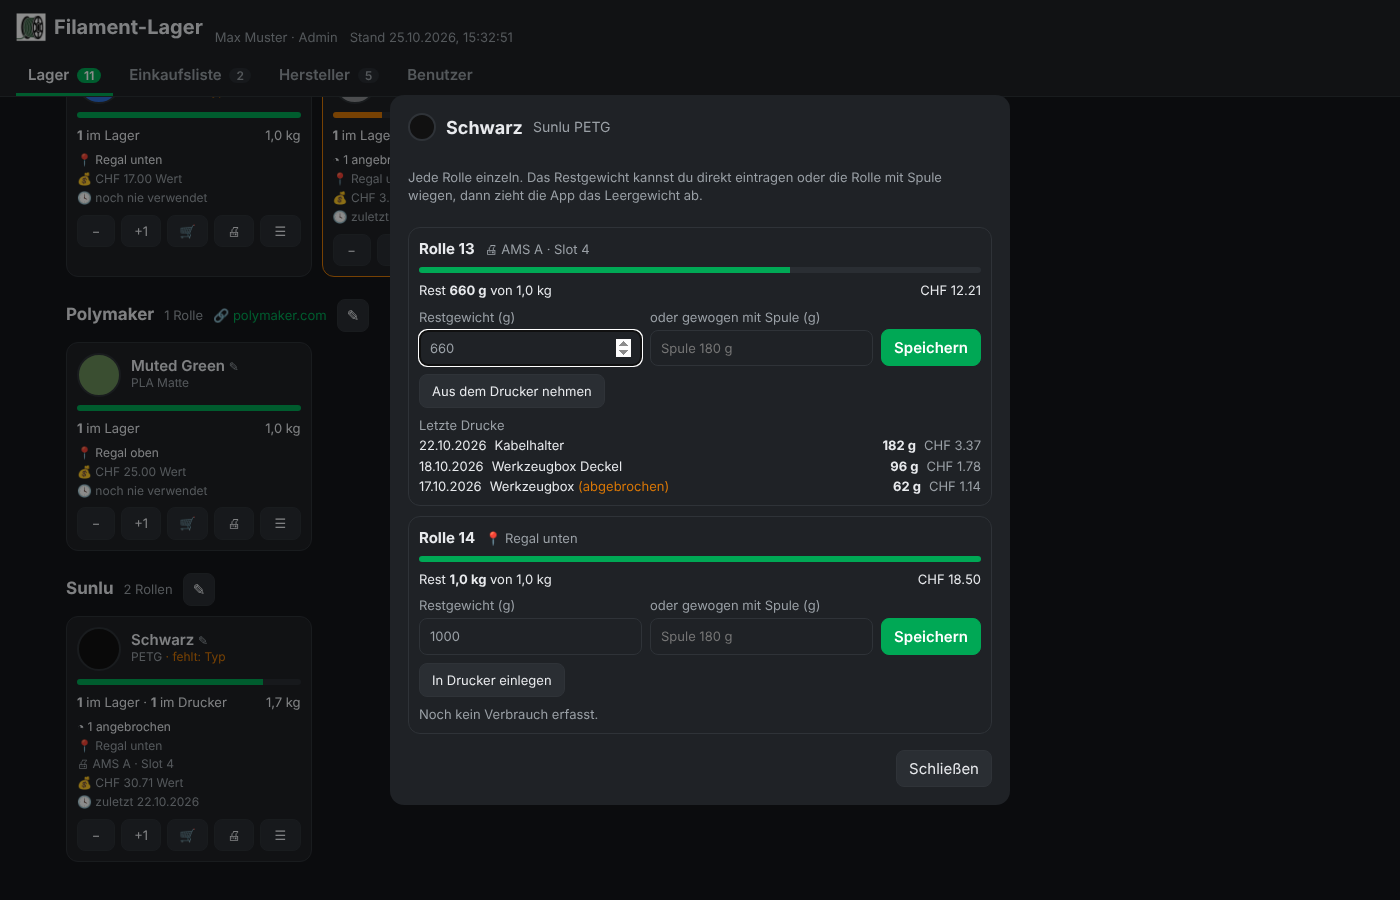
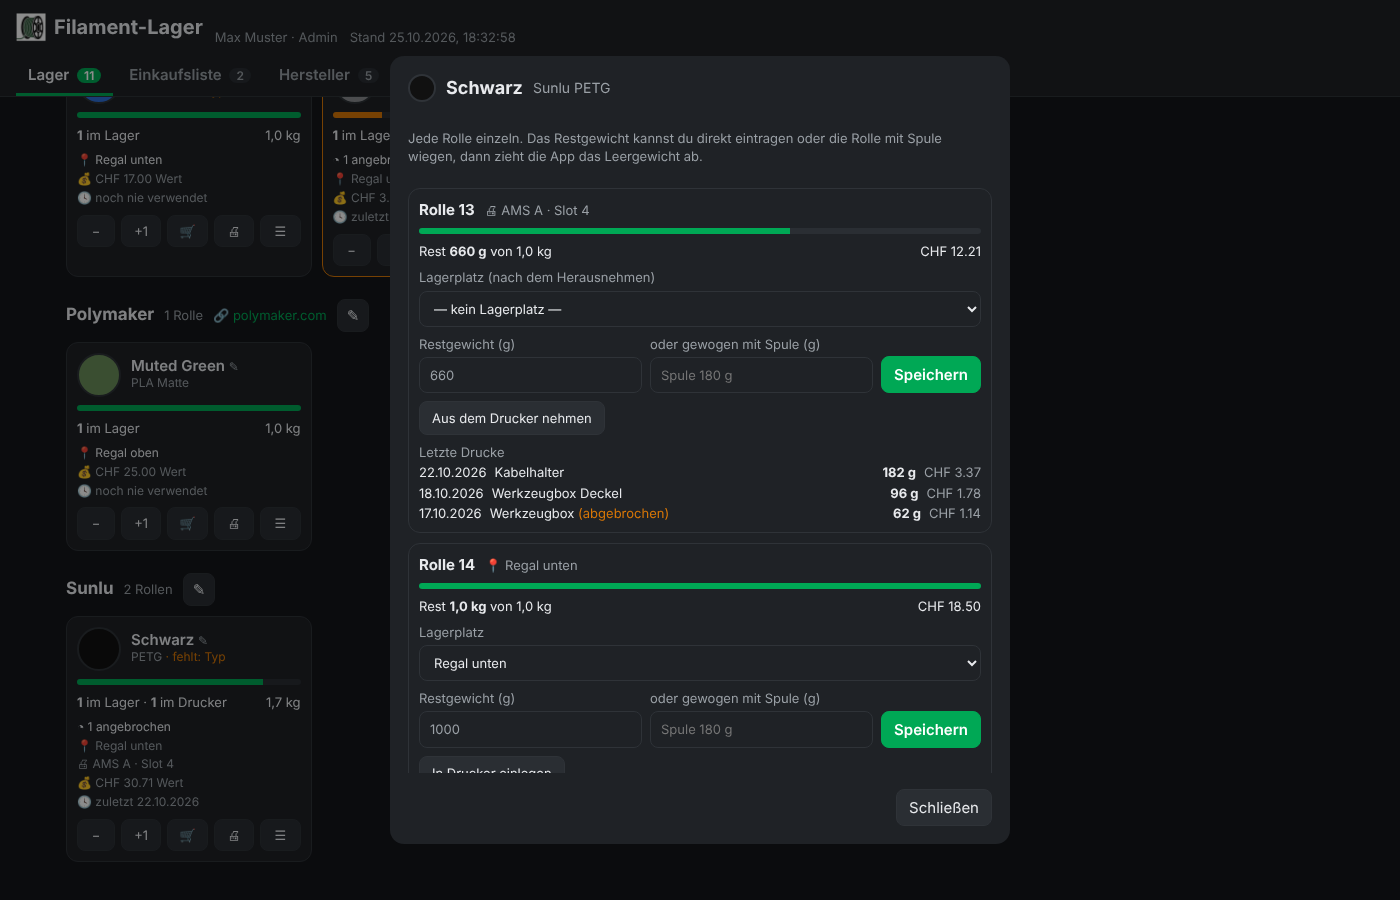
Add files via upload

diff --git a/filament_lager/www/app.js b/filament_lager/www/app.js
@@ -1075,6 +1075,9 @@ function rollCard(s) {
     <div class="bar"><span style="width:${pct}%"></span></div>
     <div class="tileInfo"><span>Rest <b>${kg(remaining(s))}</b> von ${kg(s.label_weight || 0)}</span><span>${s.cost_per_kg ? money(rollValue(s)) : ""}</span></div>
     <div class="rollEdit need-edit">
+      <label>Lagerplatz${a ? " (nach dem Herausnehmen)" : ""}<select data-place="${s.id}">${placeOptions(s)}</select></label>
+    </div>
+    <div class="rollEdit need-edit">
       <label>Restgewicht (g)<input type="number" min="0" step="1" data-rest="${s.id}" value="${Math.round(remaining(s))}"></label>
       <label>oder gewogen mit Spule (g)<input type="number" min="0" step="1" data-gross="${s.id}" placeholder="Spule ${core} g"></label>
       <button type="button" class="primary" data-act="saveWeight" data-roll="${s.id}">Speichern</button>
@@ -1089,11 +1092,42 @@ function rollCard(s) {
   </div>`;
 }
 
+function placeOptions(s) {
+  const current = s.location_id || "";
+  const opts = [`<option value="">— kein Lagerplatz —</option>`, ...(state.locationList || []).map((l) => `<option value="${l.id}">${esc(l.name)}</option>`)];
+  // Alter Freitext-Lagerplatz ohne Bambuddy-Ort bleibt sichtbar, bis ein Ort gewählt wird.
+  if (!current && s.storage_location) opts.splice(1, 0, `<option value="" selected>${esc(s.storage_location)}</option>`);
+  return opts.join("").replace(`value="${current}">`, `value="${current}" selected>`);
+}
+
+async function savePlace(s, select) {
+  const id = parseInt(select.value, 10) || null;
+  const name = id ? state.locations?.get(id) : null;
+  const ok = await askConfirm("Lagerplatz ändern", `<div class="confirmLine">${dot(s.rgba, 32)}<span><b>${esc(rollName(s))}</b> · Rolle ${s.id}</span></div>
+    <p class="confirmNote">Lagerplatz: <s>${esc(spoolPlaceName(s) || "keiner")}</s> → <b>${esc(name || "kein Lagerplatz")}</b></p>`, "Speichern");
+  if (!ok) {
+    select.innerHTML = placeOptions(s);
+    return;
+  }
+  await api(`api/inventory/spools/${s.id}`, { method: "PATCH", body: JSON.stringify({ location_id: id, storage_location: name }) });
+  toast(`Lagerplatz ${name || "entfernt"}`);
+}
+
+function spoolPlaceName(s) {
+  return (s.location_id && state.locations?.get(s.location_id)) || s.storage_location || "";
+}
+
+$("#rollList").addEventListener("change", (ev) => {
+  const id = ev.target.dataset.place;
+  const s = id && state.spools.find((x) => String(x.id) === id);
+  if (s) run(() => savePlace(s, ev.target));
+});
+
 function renderRolls() {
   const g = state.groups.find((x) => x.key === rollGroupKey);
   if (!g) return $("#rollDialog").close();
   // Eingaben, die gerade getippt werden, nicht beim Auffrischen überschreiben.
-  if ($("#rollList").contains(document.activeElement) && document.activeElement.tagName === "INPUT") return;
+  if ($("#rollList").contains(document.activeElement) && ["INPUT", "SELECT"].includes(document.activeElement.tagName)) return;
   $("#rollTitle").innerHTML = `${dot(g.rgba, 28)} ${esc(g.color_name || "Ohne Farbname")} <span class="muted">${esc([g.brand, g.material, g.subtype].filter(Boolean).join(" "))}</span>`;
   const list = [...g.spools].sort((a, b) => (state.inPrinter.has(b.id) - state.inPrinter.has(a.id)) || (b.weight_used || 0) - (a.weight_used || 0));
   $("#rollList").innerHTML = list.map(rollCard).join("");

diff --git a/filament_lager/www/style.css b/filament_lager/www/style.css
@@ -219,3 +219,4 @@ dialog.wide { width: min(620px, 96vw); }
   .rollEdit { flex-direction: column; align-items: stretch; }
   .tileActions { flex-wrap: wrap; }
 }
+.chipBox p { margin: 0; }

diff --git a/README.md b/README.md
@@ -26,7 +26,7 @@ Bambuddy zählt den Filamentverbrauch deiner Bambu-Lab-Drucker automatisch mit, 
 - **Keine Doppelten**: Schreibweisen werden vereinheitlicht („bambu lab“ wird „Bambu Lab“), und gibt es eine Sorte schon, schlägt die App vor, die Rollen dort dazuzubuchen.
 - **Einkaufsliste**: Warenkorb-Knopf an jeder Sorte, Status „zu kaufen“, „bestellt“, „eingetroffen“. Beim Eintreffen werden die Rollen direkt ins Lager gebucht. Neben jedem Eintrag steht der aktuelle Lagerbestand.
 - **Rollen im Drucker**: „🖨“ legt eine Rolle in einen AMS-Platz oder auf die externe Spule. So zieht Bambuddy auch bei Rollen ohne Chip den Verbrauch jedes Drucks ab. Steckt eine Rolle ohne Zuordnung im Drucker, zeigt die App oben einen Hinweis mit „Lager-Rolle zuordnen“. Auf jeder Kachel steht, in welchem Platz die Rollen stecken.
-- **Rollen einzeln**: „☰“ zeigt jede Rolle mit Restgewicht, Platz, Wert und den letzten Drucken samt Verbrauch. Das Restgewicht lässt sich direkt eintragen oder aus dem Gewicht auf der Waage berechnen (das Leergewicht der Spule wird abgezogen).
+- **Rollen einzeln**: „☰“ zeigt jede Rolle mit Restgewicht, Platz, Wert und den letzten Drucken samt Verbrauch. Lagerplatz und Restgewicht lassen sich dort pro Rolle ändern. Das Restgewicht lässt sich direkt eintragen oder aus dem Gewicht auf der Waage berechnen (das Leergewicht der Spule wird abgezogen).
 - **Preise**: Preis pro kg je Sorte, daraus Wert pro Rolle und Lagerwert.
 - **RFID-Abgleich**: Steckst du eine Bambu-Rolle mit Chip ins AMS, die du vorher schon im Lager erfasst hast, ordnet die App den Chip dieser Lager-Rolle zu. Nichts wird doppelt gezählt.
 - **Bearbeiten und Ausbuchen**: fehlende Angaben nachtragen, Farben korrigieren, eine zu viel erfasste Rolle wieder ausbuchen (wird in Bambuddy archiviert, nicht gelöscht).

diff --git a/filament_lager/CHANGELOG.md b/filament_lager/CHANGELOG.md
@@ -1,5 +1,9 @@
 # Änderungen
 
+## 1.3.1
+
+- Lagerplatz pro Rolle im Fenster „☰“ änderbar
+
 ## 1.3.0
 
 - Rollen in den Drucker einlegen (AMS-Platz oder externe Spule) und wieder herausnehmen, damit Bambuddy auch bei Rollen ohne Chip den Verbrauch abzieht
